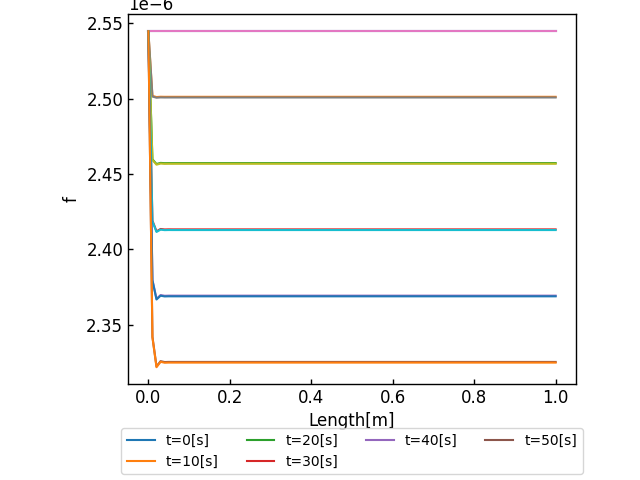
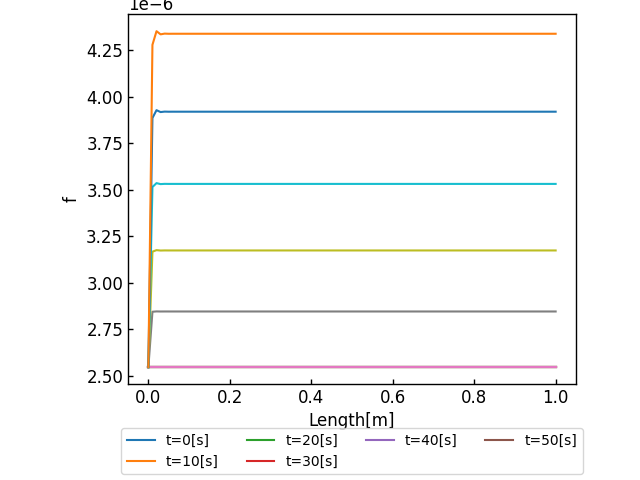
第５項にもがうす積分を適用

diff --git a/main.cpp b/main.cpp
@@ -134,7 +134,7 @@ void exec(LeftPartFlag flag)
           double dxdr = dNdr.at(0) * x.at(ele0) + dNdr.at(1) * x.at(ele1);
 
           double Q = N.at(0) * flowQuantity[i][ele0] + N.at(1) * flowQuantity[i][ele1];
-          double A = N.at(0) * flowQuantity[i][ele0] + N.at(1) * flowQuantity[i][ele1];
+          double A = N.at(0) * area[i][ele0] + N.at(1) * area[i][ele1];
 
           b_area(ele0) += N.at(0) * A * g.weight[k] * dxdr;
           b_area(ele1) += N.at(1) * A * g.weight[k] * dxdr;
@@ -175,7 +175,7 @@ void exec(LeftPartFlag flag)
           dNinvdx.at(1) = dNinvdr.at(1) * drdx;
 
           double Q = N.at(0) * flowQuantity[i][ele0] + N.at(1) * flowQuantity[i][ele1];
-          double A = N.at(0) * flowQuantity[i][ele0] + N.at(1) * flowQuantity[i][ele1];
+          double A = N.at(0) * area[i][ele0] + N.at(1) * area[i][ele1];
           double dQdx = dNdx.at(0) * flowQuantity[i][ele0] + dNdx.at(1) * flowQuantity[i][ele1];
           double dAdx = dNdx.at(0) * area[i][ele0] + dNdx.at(1) * area[i][ele1];
           double dAinvdx = dNinvdx.at(0) / area[i][ele0] + dNinvdx.at(1) / area[i][ele1];
@@ -211,7 +211,7 @@ void exec(LeftPartFlag flag)
           dNinvdx.at(1) = dNinvdr.at(1) * drdx;
 
           double Q = N.at(0) * flowQuantity[i][ele0] + N.at(1) * flowQuantity[i][ele1];
-          double A = N.at(0) * flowQuantity[i][ele0] + N.at(1) * flowQuantity[i][ele1];
+          double A = N.at(0) * area[i][ele0] + N.at(1) * area[i][ele1];
           double dQdx = dNdx.at(0) * flowQuantity[i][ele0] + dNdx.at(1) * flowQuantity[i][ele1];
           double dAdx = dNdx.at(0) * area[i][ele0] + dNdx.at(1) * area[i][ele1];
           double dAinvdx = dNinvdx.at(0) / area[i][ele0] + dNinvdx.at(1) / area[i][ele1];
@@ -226,9 +226,23 @@ void exec(LeftPartFlag flag)
 
       if (flag.shouldCalculateFifthTerm)
       {
-        // b_area has no fifth term
-        b_flowQuantity(ele0) = b_flowQuantity(ele0) - dt * (K_R * DELTA_X / 6.0e0 * (2.0e0 * (flowQuantity1 / area1) + 1.0e0 * (flowQuantity2 / area2)) + dt / 2.0e0 * pow(K_R, 2.0e0) * DELTA_X / 6.0e0 * (2.0e0 * (flowQuantity1 / pow(area1, 2.0e0)) + 1.0e0 * (flowQuantity2 / pow(area2, 2.0e0))));
-        b_flowQuantity(ele1) = b_flowQuantity(ele1) - dt * (K_R * DELTA_X / 6.0e0 * (1.0e0 * (flowQuantity1 / area1) + 2.0e0 * (flowQuantity2 / area2)) + dt / 2.0e0 * pow(K_R, 2.0e0) * DELTA_X / 6.0e0 * (1.0e0 * (flowQuantity1 / pow(area1, 2.0e0)) + 2.0e0 * (flowQuantity2 / pow(area2, 2.0e0))));
+        for (int k = 0; k < 2; k++)
+        {
+          vector<double> N(2, 0e0);
+          vector<double> dNdr(2, 0e0);
+
+          shape.P2_N(N, g.point[k]);
+          shape.P2_dNdr(dNdr, g.point[k]);
+
+          double dxdr = dNdr.at(0) * x.at(ele0) + dNdr.at(1) * x.at(ele1);
+
+          double Q = N.at(0) * flowQuantity[i][ele0] + N.at(1) * flowQuantity[i][ele1];
+          double A = N.at(0) * area[i][ele0] + N.at(1) * area[i][ele1];
+
+          // b_area has no fifth term
+          b_flowQuantity(ele0) += -N.at(0) * dt * (-K_R * Q / A - dt / 2e0 * K_R * K_R * Q / A / A) * g.weight[k] * dxdr;
+          b_flowQuantity(ele1) += -N.at(1) * dt * (-K_R * Q / A - dt / 2e0 * K_R * K_R * Q / A / A) * g.weight[k] * dxdr;
+        }
       }
     }
 
@@ -329,7 +343,6 @@ int main()
   LeftPartFlag lpf;
   lpf.shouldCalculateSecondTerm = false;
   lpf.shouldCalculateFourthTerm = false;
-  lpf.shouldCalculateFifthTerm = false;
 
   exec(lpf);
 

diff --git a/visualize.py b/visualize.py
@@ -1,8 +1,8 @@
 import numpy as np
 import matplotlib.pyplot as plt
 
-areas = np.loadtxt("output/area.dat", dtype=float)
-flowQuantities = np.loadtxt("output/flowQuantity.dat", dtype=float)
+areas = np.loadtxt("output/dat/area.dat", dtype=float)
+flowQuantities = np.loadtxt("output/dat/flowQuantity.dat", dtype=float)
 ITERATED_TIME = 6
 
 length = []
